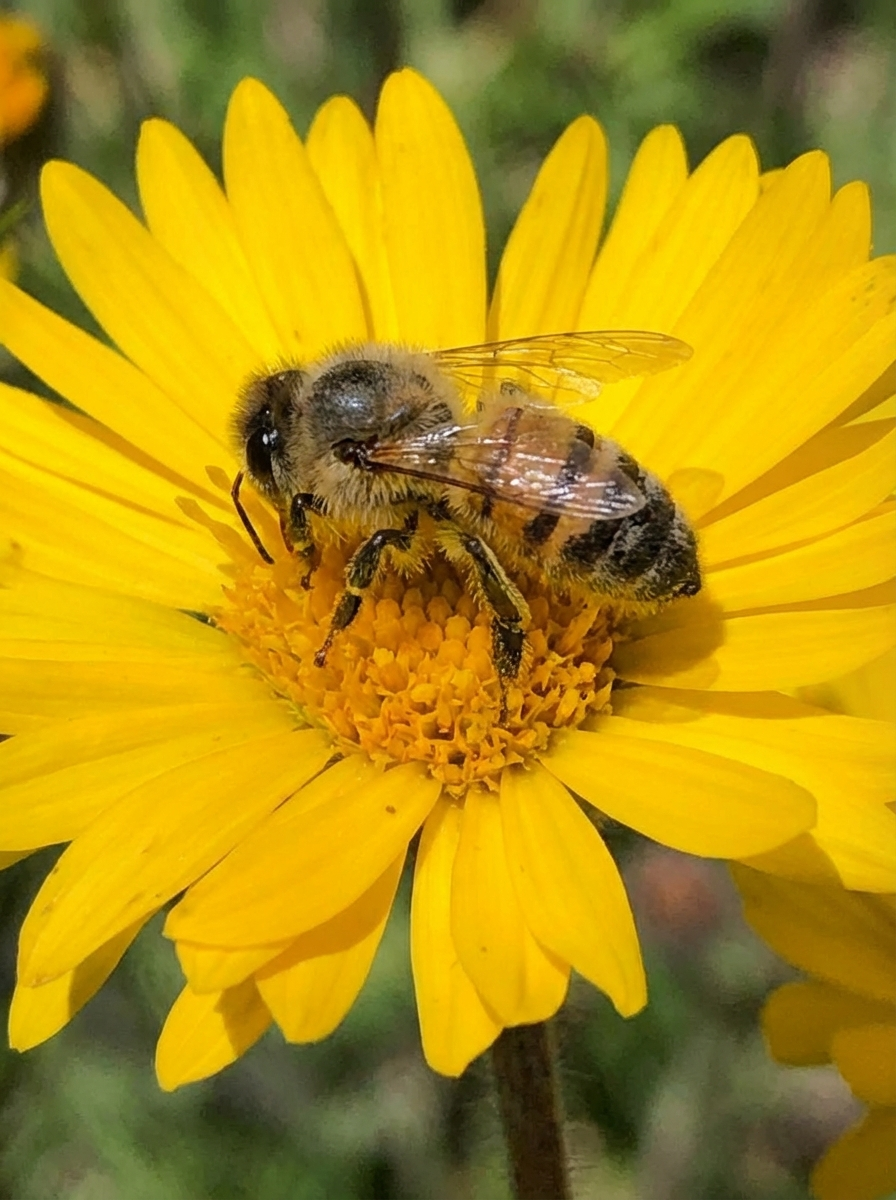
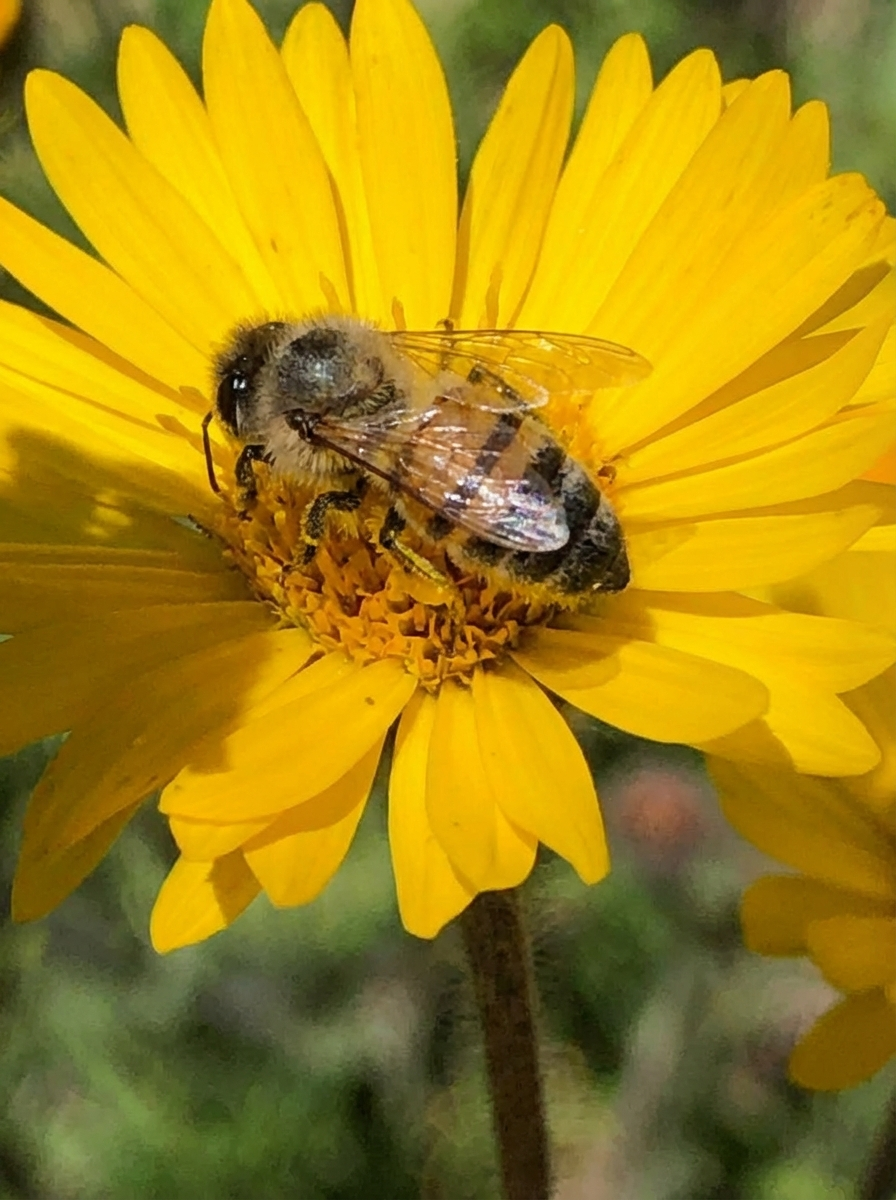
AI: Updated 1 component(s), Added 3 image(s)

diff --git a/src/components/GallerySection.tsx b/src/components/GallerySection.tsx
@@ -32,8 +32,8 @@ export const GallerySection = () => {
       aspectRatio: 'aspect-[3/4]'
     },
     {
-      src: 'https://ptgmltivisbtvmoxwnhd.supabase.co/storage/v1/object/public/message-images/7e7e24e1-47af-45b7-b627-f491723e0d93/1768500364096-w0dcq4l2h0l.jpeg',
-      alt: 'Panales de miel dorada natural con hexágonos perfectos',
+      src: 'https://ptgmltivisbtvmoxwnhd.supabase.co/storage/v1/object/public/product-images/5cf6468f-9b95-4228-adf8-62e2b1035fe6/gallery-colmenas-verdes.jpg',
+      alt: 'Colmenas negras en campo de flores cosmos rosas y amarillas con cielo dramático',
       aspectRatio: 'aspect-[3/4]'
     },
     {
@@ -42,14 +42,14 @@ export const GallerySection = () => {
       aspectRatio: 'aspect-[3/4]'
     },
     {
-      src: 'https://ptgmltivisbtvmoxwnhd.supabase.co/storage/v1/object/public/message-images/7e7e24e1-47af-45b7-b627-f491723e0d93/1768500364097-x7xduvsm2y.jpeg',
-      alt: 'Campo de flores rosas cosmos bajo cielo azul',
-      aspectRatio: 'aspect-[4/3]'
-    },
-    {
       src: 'https://ptgmltivisbtvmoxwnhd.supabase.co/storage/v1/object/public/message-images/7e7e24e1-47af-45b7-b627-f491723e0d93/1768587136322-gr9ok20ocei.JPG',
       alt: 'Colmenas en campo verde con cielo espectacular y montaña al fondo',
       aspectRatio: 'aspect-[3/4]'
+    },
+    {
+      src: 'https://ptgmltivisbtvmoxwnhd.supabase.co/storage/v1/object/public/message-images/7e7e24e1-47af-45b7-b627-f491723e0d93/1768500364097-x7xduvsm2y.jpeg',
+      alt: 'Campo de flores rosas cosmos bajo cielo azul',
+      aspectRatio: 'aspect-[4/3]'
     },
     {
       src: 'https://ptgmltivisbtvmoxwnhd.supabase.co/storage/v1/object/public/message-images/7e7e24e1-47af-45b7-b627-f491723e0d93/1768503772301-wzhytq0eiqi.jpeg',
@@ -72,11 +72,6 @@ export const GallerySection = () => {
       aspectRatio: 'aspect-[4/3]'
     },
     {
-      src: 'https://ptgmltivisbtvmoxwnhd.supabase.co/storage/v1/object/public/message-images/7e7e24e1-47af-45b7-b627-f491723e0d93/1768500364097-whvyzd82i2m.jpeg',
-      alt: 'Fila de colmenas de madera en el bosque de montaña',
-      aspectRatio: 'aspect-[3/4]'
-    },
-    {
       src: 'https://ptgmltivisbtvmoxwnhd.supabase.co/storage/v1/object/public/product-images/5cf6468f-9b95-4228-adf8-62e2b1035fe6/gallery-apicultor-panal.jpg',
       alt: 'Apicultor sosteniendo panal lleno de abejas en campo de flores amarillas',
       aspectRatio: 'aspect-[3/4]'
@@ -87,12 +82,12 @@ export const GallerySection = () => {
       aspectRatio: 'aspect-[3/4]'
     },
     {
-      src: 'https://ptgmltivisbtvmoxwnhd.supabase.co/storage/v1/object/public/product-images/5cf6468f-9b95-4228-adf8-62e2b1035fe6/gallery-colmenas-verdes.jpg',
-      alt: 'Colmenas negras en campo de flores cosmos rosas y amarillas con cielo dramático',
+      src: 'https://ptgmltivisbtvmoxwnhd.supabase.co/storage/v1/object/public/message-images/7e7e24e1-47af-45b7-b627-f491723e0d93/1768500364096-w0dcq4l2h0l.jpeg',
+      alt: 'Panales de miel dorada natural con hexágonos perfectos',
       aspectRatio: 'aspect-[3/4]'
     },
     {
-      src: 'https://ptgmltivisbtvmoxwnhd.supabase.co/storage/v1/object/public/product-images/5cf6468f-9b95-4228-adf8-62e2b1035fe6/abeja-flores-moradas.jpg',
+      src: 'https://ptgmltivisbtvmoxwnhd.supabase.co/storage/v1/object/public/product-images/5cf6468f-9b95-4228-adf8-62e2b1035fe6/abeja-romero.jpg',
       alt: 'Abeja recolectando néctar en flores moradas de romero silvestre',
       aspectRatio: 'aspect-[3/4]'
     },
